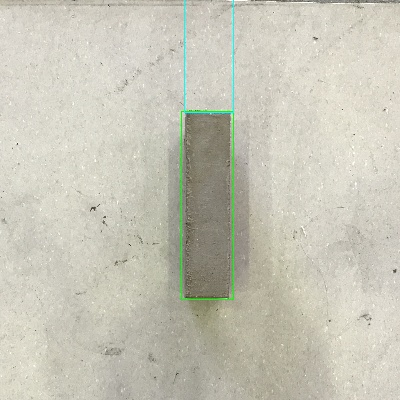
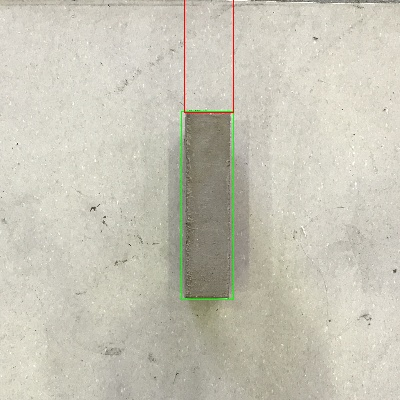
different color BB depending on if the BB is accepted or declined

Changed region(s): [[0.45, 0.0, 0.6, 0.3]]

diff --git a/Includes/Evaluator.cpp b/Includes/Evaluator.cpp
@@ -62,6 +62,8 @@ double Evaluator::calculate_IoU(cv::Rect rect1, cv::Rect rect2)
 
 void Evaluator::evaluate(double threshold)
 {
+    this->false_positive = {};
+    this->true_positive = {};
     std::cout << "Threshold: " << threshold << std::endl;
 	std::vector<cv::Rect> annotations(this->loader.Bounding_boxes);
 	std::vector<cv::Rect> predictions;
@@ -89,6 +91,7 @@ void Evaluator::evaluate(double threshold)
         if (max_IOU > threshold)
         {
             //Remove elements form annotation list and prediction list.
+            this->true_positive.push_back(predictions[i]);
             predictions.erase(predictions.begin() + i);
             annotations.erase(annotations.begin() + index_max_IOU);
         }
@@ -97,6 +100,9 @@ void Evaluator::evaluate(double threshold)
             i++;
         }
     }
+
+    this->false_positive = predictions;
+
     int true_pos = this->detector.predictions.size() - predictions.size();
     int false_pos = predictions.size();
     int false_neg = annotations.size();
@@ -113,6 +119,9 @@ void Evaluator::save_evaluation(int true_pos, int false_pos, int false_neg)
     // color code true_pos, false_pos etc:
     this->img_to_print = loader.img.clone();
     util::print_bounding_boxes(img_to_print, loader.Bounding_boxes, cv::Scalar(0, 255, 0));
-    util::print_bounding_boxes(img_to_print, detector.predictions, cv::Scalar(255, 255, 0));
+    //util::print_bounding_boxes(img_to_print, detector.predictions, cv::Scalar(255, 255, 0));
+    util::print_bounding_boxes(this->img_to_print, this->false_positive, cv::Scalar(0,0,255));
+    util::print_bounding_boxes(this->img_to_print, this->true_positive, cv::Scalar(255, 0, 0));
+
     cv::imwrite(loader.path_folder + "/evaluations/" + loader.file_name, img_to_print);
 }

diff --git a/Includes/Evaluator.h b/Includes/Evaluator.h
@@ -24,5 +24,7 @@ private:
 	Data_loader loader;
 	std::ofstream file;
 	Brick_Detector detector;
+    std::vector<cv::Rect> false_positive;
+    std::vector<cv::Rect> true_positive;
 };
 
